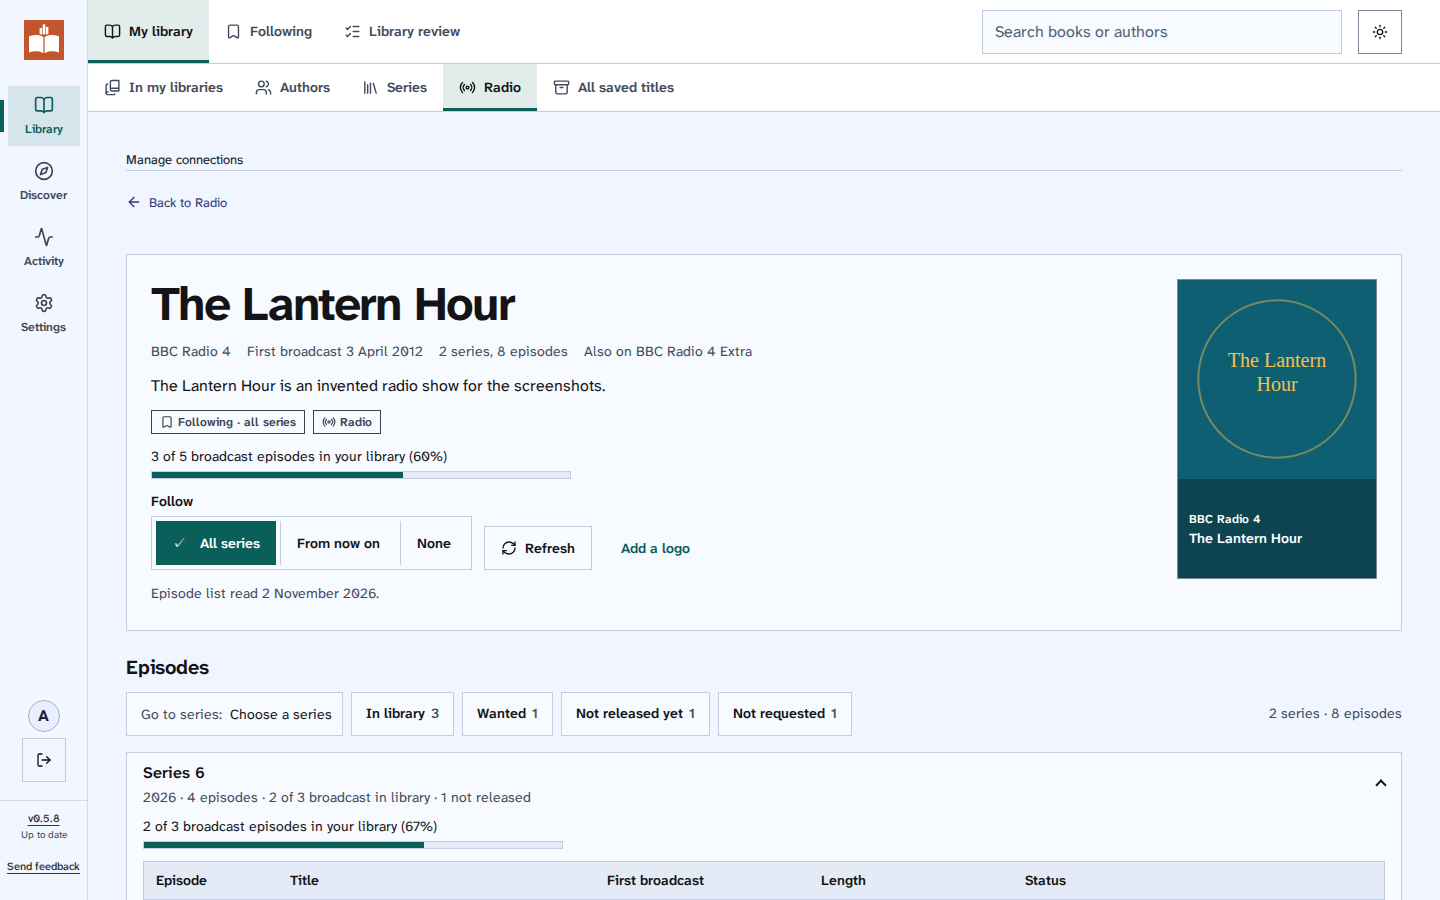
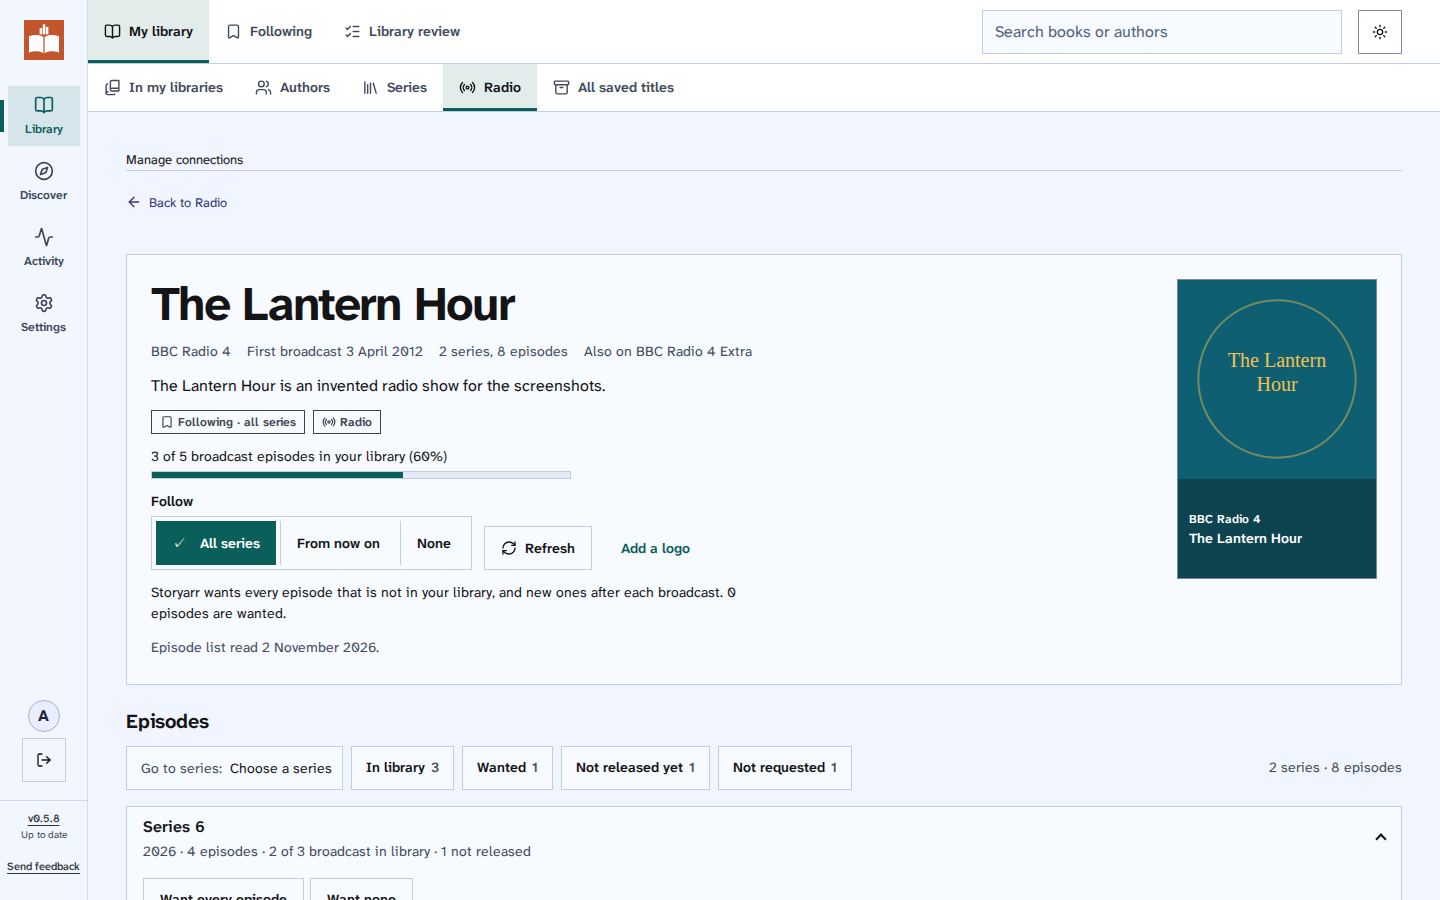
Storyarr 0.6.1: version, upgrade notes, changelog, release notes and screenshots

Changed region(s): [[0.0938, 0.6533, 0.9688, 1.0], [0.875, 0.84, 0.9688, 0.8711], [0.875, 0.7778, 0.9688, 0.8089]]

diff --git a/apps/web/tests/docs/screenshots.spec.ts b/apps/web/tests/docs/screenshots.spec.ts
@@ -929,6 +929,66 @@ test("radio show page", async ({ page }) => {
   await page.screenshot({ path: `${OUT}/radio-show.png` });
 });
 
+test("radio, add a show from any source", async ({ page }) => {
+  // Invented shows from the three sources, each with its source label and artwork.
+  const hit = (
+    index: number,
+    source: "bbc" | "apple" | "archive",
+    extra: Record<string, unknown>,
+  ) => ({
+    source,
+    source_name: {
+      bbc: "BBC",
+      apple: "Apple Podcasts",
+      archive: "Internet Archive",
+    }[source],
+    link: `https://example.org/show-${index}`,
+    title: radioShows[index][1],
+    synopsis: null,
+    author: null,
+    station_id: null,
+    station_name: null,
+    pid: null,
+    image_pid: null,
+    artwork_url: `/api/radio/shows/${radioShows[index][0]}/artwork`,
+    licence: null,
+    existing_show_id: null,
+    ...extra,
+  });
+  await setup(page, "light", false, false, (path, url) => {
+    if (path === "/api/radio/search")
+      return {
+        sources: ["BBC", "Apple Podcasts", "Internet Archive"],
+        failed: [],
+        items: [
+          hit(0, "bbc", {
+            station_name: "BBC Radio 4",
+            existing_show_id: "s1",
+          }),
+          hit(1, "apple", { author: "Harbour Audio", synopsis: "Comedy" }),
+          hit(2, "apple", { author: "Night Desk", synopsis: "Fiction" }),
+          hit(3, "archive", { author: "Old-time radio" }),
+        ],
+      };
+    return radioApi(path, url);
+  });
+  await page.goto("/library/radio");
+  await page.getByRole("button", { name: "Add a show" }).click();
+  const dialog = page.getByRole("dialog", { name: "Add a show" });
+  await dialog.getByLabel("Link or show name").fill("lantern");
+  await dialog.getByRole("button", { name: "Find show" }).click();
+  await expect(dialog.getByRole("radio")).toHaveCount(4);
+  await page.waitForTimeout(800);
+  await dialog
+    .locator(".radio-add-results")
+    .screenshot({ path: `${OUT}/radio-add-show.png` });
+  await dialog.getByText("Where to search").click();
+  await page.waitForTimeout(400);
+  await dialog
+    .locator(".radio-search-choices")
+    .screenshot({ path: `${OUT}/radio-where-to-search.png` });
+});
+
 test("settings, cover actions", async ({ page }) => {
   await setup(page);
   await page.goto("/settings#display");

diff --git a/apps/web/src/pages/Radio.tsx b/apps/web/src/pages/Radio.tsx
@@ -1642,7 +1642,7 @@ function SearchChoices() {
         <fieldset className="radio-search-sources">
           <legend>Search in</legend>
           {SOURCE_CHOICES.map((choice) => (
-            <label key={choice.value} className="checkbox">
+            <label key={choice.value} className="check-label">
               <input
                 type="checkbox"
                 checked={sources.includes(choice.value)}

diff --git a/apps/web/src/radio.css b/apps/web/src/radio.css
@@ -434,6 +434,7 @@
 
 /* Radio beyond the BBC (RADIO-02): search results with artwork, links, monitoring by hand. */
 .radio-add-choice {
+  grid-template-columns: auto auto minmax(0, 1fr);
   align-items: center;
 }
 .radio-add-art {

diff --git a/services/app/domain/upgrades.py b/services/app/domain/upgrades.py
@@ -373,7 +373,7 @@ RELEASES = [
     ),
     UpgradeRelease(
         id="2026.11.05",
-        title="Review the radio library, passwords and security fixes",
+        title="Radio beyond the BBC, following shows, passwords and security fixes",
         added=[
             "Review the radio library in My library, Radio: add its shows, and link files that "
             "match no episode by hand.",
@@ -381,10 +381,19 @@ RELEASES = [
             "their account's details.",
             "Send feedback under the version number, sent as a GitHub issue.",
             "Discover, For you has Books and Radio tabs.",
+            "Follow radio shows: wanted episodes become requests in Activity and broadcasts "
+            "appear on the release calendar.",
+            "Radio from podcast feeds, Apple Podcasts and the Internet Archive, as well as the "
+            "BBC. Add a show searches the sources you choose for your country.",
+            "Want or do not want an episode, or a whole series, by hand.",
+            "Radio warns when shows you follow have nowhere to go, and a show page opens its "
+            "show in Audiobookshelf.",
         ],
         changed=[
             "Confirmations are toasts, and settings pages say when they were saved.",
             "Settings are activated and deactivated, and are active or inactive.",
+            "Episodes a source no longer lists are kept and marked, not deleted.",
+            "Not this file is remembered, so the radio library sync can find the right file.",
         ],
         fixed=[
             "Dates are written the same way on every page, whatever your browser's language.",
@@ -397,11 +406,18 @@ RELEASES = [
             "Two new columns for the radio library review (storyarr_0090_radio_review): the "
             "radio library folder a show was added from, and whether an episode's file was "
             "linked by hand.",
+            "Radio following (storyarr_0091_radio_following): episode requests use a new "
+            "request reason.",
+            "Radio sources (storyarr_0092_radio_sources): shows from feeds and the Internet "
+            "Archive, episodes no longer listed, episodes chosen by hand, files said to be "
+            "not an episode, and other ids a show is known by.",
         ],
         rollback=(
-            "To go back to v0.6.0, run python -m app.downgrade storyarr_0089_radio_library in the "
-            "Storyarr container first. Only the links chosen by hand in the review are lost. No "
-            "audio files are touched."
+            "To go back to v0.6.0, remove any shows from podcast feeds, Apple Podcasts or the "
+            "Internet Archive and any radio episode requests (or restore the backup taken before "
+            "the upgrade), then run python -m app.downgrade storyarr_0089_radio_library in the "
+            "Storyarr container. Choices made by hand for radio are lost. No audio files are "
+            "touched."
         ),
     ),
 ]

diff --git a/CHANGELOG.md b/CHANGELOG.md
@@ -9,10 +9,29 @@ have come in releases that change only the last number. Storyarr is a fork of
 
 ## [Unreleased]
 
-The database gains two columns for the radio library review (`storyarr_0090_radio_review`). To go back to
-v0.6.0, run `python -m app.downgrade storyarr_0089_radio_library` in the Storyarr container first.
+## [0.6.1] (5 November 2026)
+
+The database changes three times: two columns for the radio library review (`storyarr_0090_radio_review`),
+radio following (`storyarr_0091_radio_following`) and radio sources (`storyarr_0092_radio_sources`). To go back to
+v0.6.0, remove shows from podcast feeds, Apple Podcasts or the Internet Archive and any radio episode requests
+(or restore the backup taken before the upgrade), then run `python -m app.downgrade storyarr_0089_radio_library`
+in the Storyarr container.
 
 ### Added
+- **Follow radio shows** (All series, From now on or None): wanted episodes become requests in Activity, and
+  broadcasts appear on the release calendar. Followed shows are read again twice a day.
+- **Radio beyond the BBC.** Add a show from a podcast feed (or a web page that links to one), an Apple Podcasts
+  link or an Internet Archive old-time radio item. Add a show searches the BBC, Apple Podcasts and the Internet
+  Archive by name, each result labelled with its source; **Where to search** keeps your country and the sources
+  to ask with your account. The BBC is only asked for the United Kingdom.
+- **Internet Archive licences** are shown on the show page; "No licence given" when the item gives none.
+- **Want an episode, or a whole series, by hand** (Wanted, Not wanted, or the follow choice). A new follow choice
+  applies to every episode again.
+- **Radio warns** when shows you follow have nowhere to go: no radio library chosen, Audiobookshelf not
+  answering, or the radio folder not mounted or not writable.
+- **Open in Audiobookshelf** and the show's web page on a radio show page.
+- Radio release names (`Show S20E03`, dates, a station in front, get_iplayer names), search words and the release
+  check, ready for torrent and Usenet searches for radio.
 - **Review the radio library** (My library, Radio): the shows in the radio library that are not in your radio
   shows, each with Find on the BBC (the show then takes that folder's files, whatever it is called) or Already
   added, and the files that match no episode, each with a list of the show's episodes to link it by hand.
@@ -29,6 +48,14 @@ v0.6.0, run `python -m app.downgrade storyarr_0089_radio_library` in the Storyar
 - **Discover, For you** has Books and Radio tabs: five stations, top shows and a genre choice.
 
 ### Changed
+- **Podcast feeds are read every hour**; one that has not changed costs one small request (ETag and
+  Last-Modified), not a full download.
+- **Episodes and series a source no longer lists are kept and marked** "No longer listed", not deleted.
+- **Radio library matching:** feed episodes match their files by guid or audio address; a series and episode
+  number that two files, or two episodes, share links nothing; **Not this file** is remembered, so the sync can
+  still find the right file.
+- **Shows found under another id** (a BBC series that led to its brand, an Apple Podcasts id that led to a feed)
+  are marked as already in your radio on Discover and in search.
 - **Add a show** also looks in the BBC programmes A to Z when BBC Sounds has no show of that name, so older
   shows such as Cabin Pressure and Old Harry's Game are found by name.
 - **Confirmations are toasts:** a card in the corner, up to three stacked, that waits while the pointer or
@@ -38,6 +65,9 @@ v0.6.0, run `python -m app.downgrade storyarr_0089_radio_library` in the Storyar
 - **Words:** settings are activated and deactivated, and are active or inactive, on every page and state chip.
 
 ### Fixed
+- **Going back to v0.6.0:** `python -m app.downgrade storyarr_0089_radio_library` is now accepted; before, the
+  command named in these notes was refused.
+- **Test results** committed by mistake were removed, and test result folders of any name are ignored.
 - **Dates** are written the same way on every page, whatever your browser's language: "12 May 2020", never
   "12/05/2020" or "May 12, 2020".
 
@@ -56,6 +86,10 @@ From the security check of 3 November 2026. Each fix has a test.
 - **Old sign-ins are cleared:** expired sessions and old sign-in counters are deleted each night.
 - **Logos:** CSS escapes are removed from uploaded SVG logos.
 - **A malformed security token** is refused (403) instead of causing a server error.
+- **Feed addresses:** podcast feeds, the pages that link to them and their artwork are only read from public
+  addresses. Every redirect is checked again, the connection is pinned to the checked address, bodies are size
+  limited, feed XML is read with defusedxml (no entity expansion or external entities), and feed addresses are
+  kept out of logs and audit records.
 
 ## [0.6.0] (2 November 2026)
 
@@ -422,7 +456,8 @@ The first Storyarr release.
 - **Removed files in My Library:** My Library no longer lists files that were removed or are confirmed missing as
   unticked books.
 
-[Unreleased]: https://github.com/TheMightyTRex/storyarr/compare/v0.6.0...HEAD
+[Unreleased]: https://github.com/TheMightyTRex/storyarr/compare/v0.6.1...HEAD
+[0.6.1]: https://github.com/TheMightyTRex/storyarr/compare/v0.6.0...v0.6.1
 [0.6.0]: https://github.com/TheMightyTRex/storyarr/compare/v0.5.9...v0.6.0
 [0.5.9]: https://github.com/TheMightyTRex/storyarr/compare/v0.5.8...v0.5.9
 [0.5.8]: https://github.com/TheMightyTRex/storyarr/compare/v0.4.8...v0.5.8

diff --git a/docs/releases/v0.6.1.md b/docs/releases/v0.6.1.md
@@ -1,6 +1,15 @@
-# Storyarr v0.6.1 (next release, not yet released)
+# Storyarr v0.6.1 (5 November 2026)
+
+Radio grows up: follow shows, and add them from podcast feeds, Apple Podcasts and the Internet Archive as well as the BBC.
 
 ## Added
+
+- **Follow radio shows** (All series, From now on or None): wanted episodes become requests in Activity, and broadcasts appear on the release calendar.
+- **Radio beyond the BBC.** Add a show from a podcast feed (or a web page that links to one), an Apple Podcasts link or an Internet Archive old-time radio item. Add a show searches the BBC, Apple Podcasts and the Internet Archive by name, each result labelled with its source. **Where to search** keeps your country and the sources to ask with your account; the BBC is only asked for the United Kingdom.
+- **Internet Archive licences** are shown on the show page, or "No licence given". No licence given does not mean free to use.
+- **Want an episode, or a whole series, by hand:** Wanted, Not wanted, or the follow choice.
+- **Radio warns** when shows you follow have nowhere to go: no radio library, Audiobookshelf not answering, or the radio folder not mounted or not writable.
+- **Open in Audiobookshelf** and the show's web page on a radio show page.
 
 - **Change password.** In Settings, Sign-in, change your own password. Your other browsers and devices are signed out.
 - **Send feedback.** Under the version number, in the side menu and the phone menu: report a problem or suggest something, shown on the page or recorded as steps, sent as a GitHub issue. It uses [Snaglist](https://github.com/TheMightyTRex/snaglist), which loads only when you select it and records nothing personal: names on screen are left out, and you see the whole report before it goes.
@@ -10,6 +19,11 @@
 
 ## Changed
 
+- **Podcast feeds are read every hour.** A feed that has not changed costs one small request, not a full download.
+- **Episodes a source no longer lists are kept** and marked "No longer listed", never deleted.
+- **Radio library matching** finds feed episodes by their guid or audio address. A number that two files, or two episodes, share links nothing, and **Not this file** is remembered, so the sync can still find the right file.
+- **Shows found under another id** are marked as already in your radio on Discover and in search.
+
 - **Add a show** also looks in the BBC programmes A to Z when BBC Sounds has no show of that name, so older shows are found by name.
 - **Confirmations are toasts:** a card in the corner, up to three stacked, that waits while the pointer or keyboard focus is on it.
 - **Settings pages say "Saved at 16:31"** beside Save, until the next change.
@@ -17,6 +31,8 @@
 - **Words:** settings are activated and deactivated, and are active or inactive.
 
 ## Fixed
+
+- **Going back to v0.6.0:** the downgrade command named in these notes is now accepted.
 
 - **Dates** are written the same way on every page, whatever your browser's language: "12 May 2020", never "12/05/2020" or "May 12, 2020".
 
@@ -32,7 +48,10 @@ From the security check of 3 November 2026. Each fix has a test.
 - **Old sign-ins are cleared:** expired sessions and old sign-in counters are deleted each night.
 - **Logos:** CSS escapes are removed from uploaded SVG logos.
 - **A malformed security token** is refused (403) instead of causing a server error.
+- **Feed addresses** are only read from public addresses, checked again on every redirect, with size and time limits. Feed XML is read safely (no entity expansion or external entities), and feed addresses, which can carry a private key, are kept out of logs.
 
 ## Your settings and the way back
 
-No settings change. The database gains two columns for the radio library review (storyarr_0090_radio_review). To go back to v0.6.0, run `python -m app.downgrade storyarr_0089_radio_library` in the Storyarr container first, then run v0.6.0. Only the links chosen by hand in the review are lost; no audio files are touched.
+No settings need changing. Radio's **Where to search** starts as Anywhere, with every source on.
+
+The database changes three times: the radio library review (storyarr_0090_radio_review), radio following (storyarr_0091_radio_following) and radio sources (storyarr_0092_radio_sources). To go back to v0.6.0, remove any shows from podcast feeds, Apple Podcasts or the Internet Archive and any radio episode requests, or restore the backup taken before the upgrade. Then run `python -m app.downgrade storyarr_0089_radio_library` in the Storyarr container, and run v0.6.0. Choices made by hand for radio are lost; no audio files are touched.

diff --git a/README.md b/README.md
@@ -24,7 +24,7 @@ licence.
 - **Actions on every cover:** details, ebook, audiobook, add to a list and more, on the cover or beside it.
 - **Series headers with logos:** the series logo above the name, which admins can cut out of a cover, find on
   Wikimedia Commons or upload.
-- **Radio (early):** add BBC radio shows and browse their series and episodes. Downloading comes later.
+- **Radio:** follow radio shows from the BBC, podcast feeds, Apple Podcasts and the Internet Archive, with their series and episodes, matched to an Audiobookshelf podcast library. Searching torrent and Usenet sources for radio comes later.
 - **Safe upgrades:** a settings backup before every upgrade, a wizard that explains each change, and a way
   back. Automatic upgrades if you prefer.
 - **Speed:** request counts that took minutes on large libraries now take under a second.
@@ -104,6 +104,11 @@ The books and covers below are invented for the screenshots.
 
 ### Radio show
 ![A radio show page: the name, station and first broadcast, the follow choice, Refresh, Add a logo, and the newest series with its episodes](docs/images/radio-show.png)
+
+### Add a show
+![Add a show: a search for "lantern" finds four invented shows in the BBC, Apple Podcasts and the Internet Archive, each with its artwork and its source, and one marked In your radio](docs/images/radio-add-show.png)
+
+![Where to search, in Add a show: Your country (Anywhere) and the sources to search in, BBC, Apple Podcasts and Internet Archive, each with what it holds](docs/images/radio-where-to-search.png)
 
 ### Radio library setting
 ![Settings, Connections, Radio library: the Audiobookshelf podcast library Radio on Home server, its folder as Audiobookshelf and Storyarr see it, when it was last read, and 186 episode files with 172 matched to your shows, with Read again and Change](docs/images/radio-library-setting.png)
